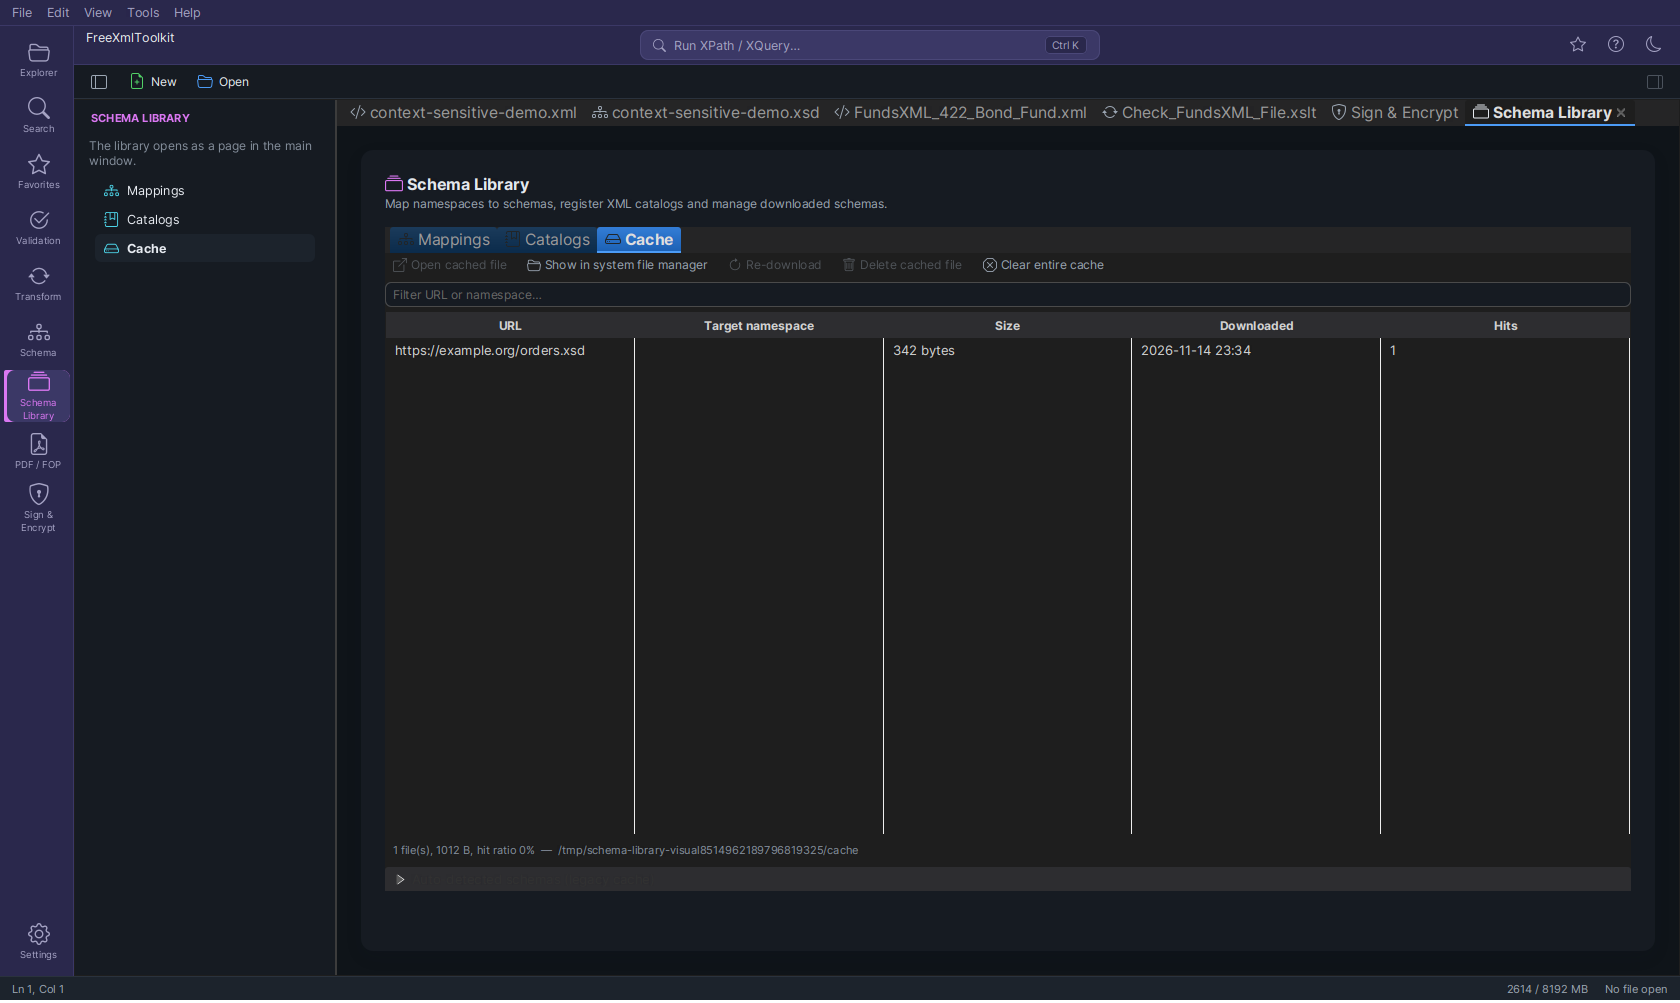
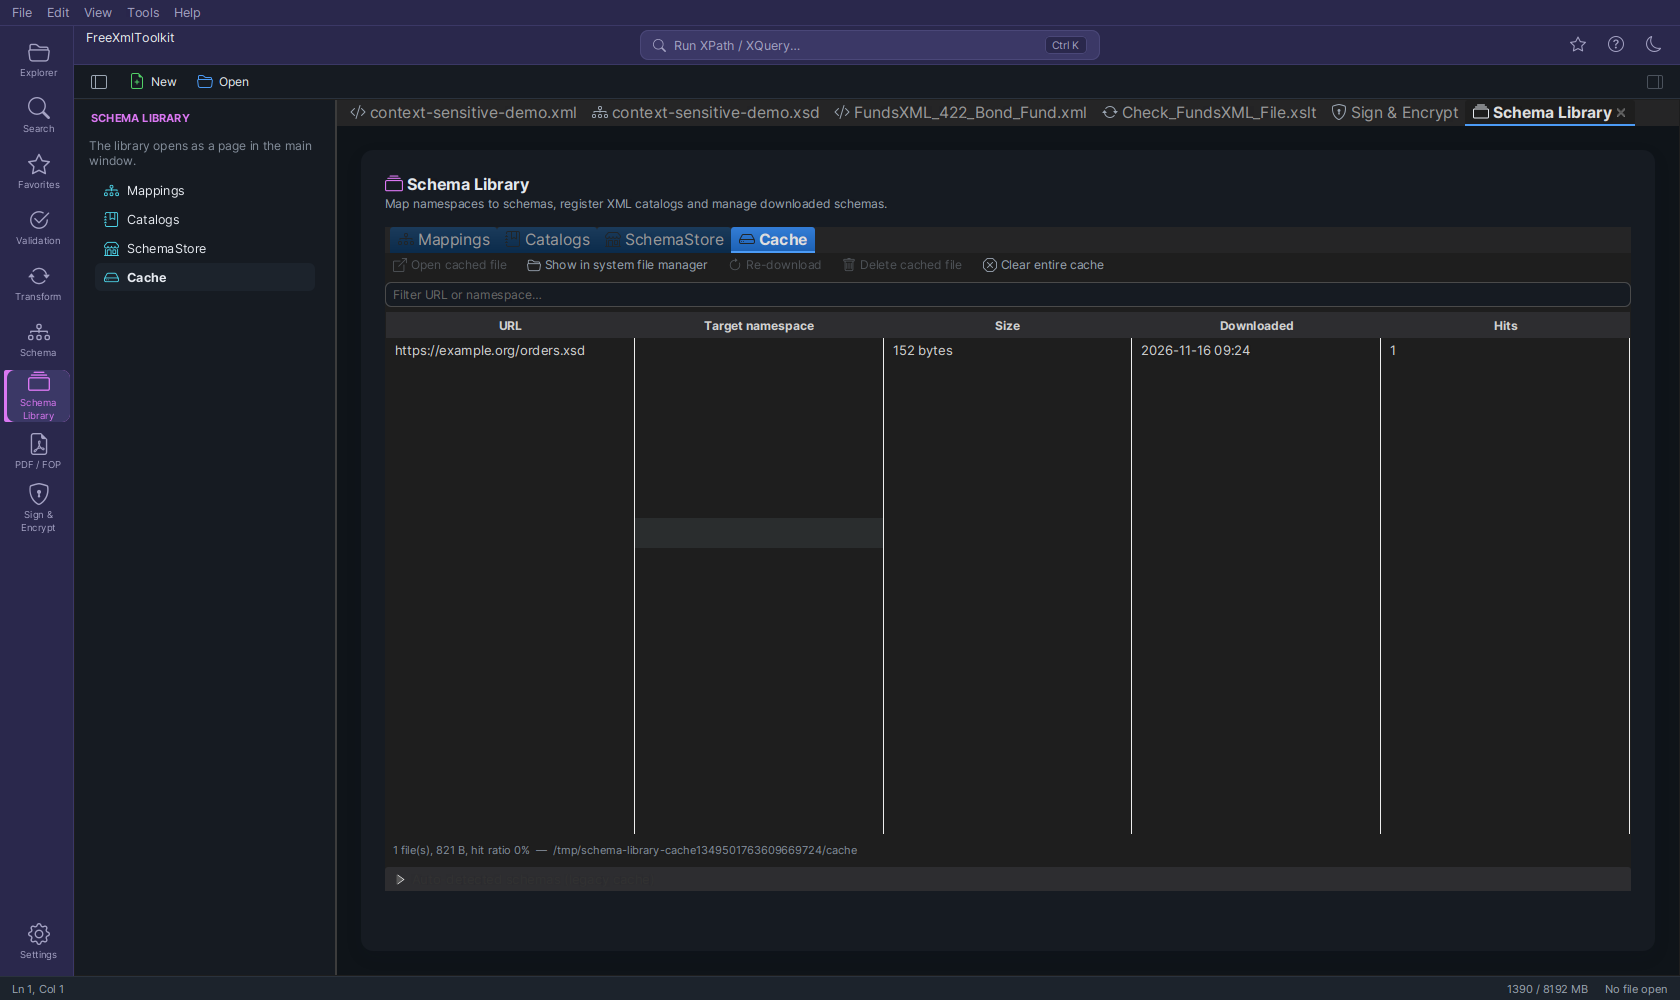
docs(schema-library): screenshots with the SchemaStore tab
The shell screenshot generator selected the library tabs by index (the new SchemaStore tab would
have been saved as "cache") and depended on fonts and a cache set up by other generators in the
same JVM; it now loads the fonts, seeds its own example cache and an offline SchemaStore catalog.

diff --git a/src/test/java/org/fxt/freexmltoolkit/screenshots/ShellDocScreenshotGenerator.java b/src/test/java/org/fxt/freexmltoolkit/screenshots/ShellDocScreenshotGenerator.java
@@ -57,6 +57,42 @@ class ShellDocScreenshotGenerator {
         org.fxt.freexmltoolkit.di.ServiceRegistry.get(org.fxt.freexmltoolkit.service.PropertiesService.class)
                 .set(org.fxt.freexmltoolkit.controls.shell.editor.FundsXmlHint.SHOWN_KEY, "true");
         org.fxt.freexmltoolkit.controls.v2.view.XsdTypeIconPaths.registerAll();
+        // The bundled fonts, as the application loads them (else the shots fall back to a system font).
+        for (String font : new String[]{"Inter-Regular", "Inter-Medium", "Inter-SemiBold", "Inter-Bold",
+                "JetBrainsMono-Regular", "JetBrainsMono-Medium", "JetBrainsMono-Bold"}) {
+            javafx.scene.text.Font.loadFont(getClass().getResourceAsStream("/css/fonts/" + font + ".ttf"), 10);
+        }
+        // A schema cache of its own with one example entry (no local paths of the machine in the Cache tab).
+        Path cacheDir = Files.createTempDirectory("schema-library-cache");
+        var cache = new org.fxt.freexmltoolkit.service.SchemaResourceCache(cacheDir.resolve("cache"));
+        Path cached = cache.getCacheDirectory().resolve("abc123.xsd");
+        Files.createDirectories(cached.getParent());
+        Files.writeString(cached, """
+                <xs:schema xmlns:xs="http://www.w3.org/2001/XMLSchema" targetNamespace="urn:example:orders">
+                  <xs:element name="order" type="xs:string"/>
+                </xs:schema>
+                """);
+        cache.getCacheIndex().addOrUpdateEntry(org.fxt.freexmltoolkit.service.SchemaCacheEntry.builder()
+                .localFilename("abc123.xsd").remoteUrl("https://example.org/orders.xsd")
+                .downloadTimestamp(java.time.Instant.now()).fileSizeBytes(Files.size(cached)).build());
+        cache.saveIndex();
+        org.fxt.freexmltoolkit.di.ServiceRegistry.register(org.fxt.freexmltoolkit.service.SchemaResourceCache.class, cache);
+        // A small offline SchemaStore catalog for the Schema Library's SchemaStore tab (nothing is downloaded).
+        Path catalog = Files.createTempDirectory("fxt-doc-schemastore").resolve("catalog.json");
+        Files.writeString(catalog, """
+                {"schemas": [
+                  {"name": "GitHub Workflow", "fileMatch": [".github/workflows/*.yml", ".github/workflows/*.yaml"],
+                   "url": "https://www.schemastore.org/github-workflow.json"},
+                  {"name": "Docker Compose", "fileMatch": ["docker-compose.yml", "compose.yaml"],
+                   "url": "https://www.schemastore.org/compose-spec.json"},
+                  {"name": "package.json", "fileMatch": ["package.json"],
+                   "url": "https://www.schemastore.org/package.json"}
+                ]}
+                """);
+        org.fxt.freexmltoolkit.service.schemastore.SchemaStoreCatalog.setShared(
+                new org.fxt.freexmltoolkit.service.schemastore.SchemaStoreCatalog(catalog, uri -> {
+                    throw new java.io.IOException("offline");
+                }));
         FXMLLoader loader = new FXMLLoader(getClass().getResource("/pages/tab_unified_shell.fxml"));
         root = loader.load();
         stage.setScene(new Scene(root, 1680, 1000));
@@ -233,7 +269,7 @@ class ShellDocScreenshotGenerator {
         settle();
         shot("unified-shell-signature");
 
-        // --- Schema Library activity: Mappings, Catalogs and Cache tabs ---
+        // --- Schema Library activity: Mappings, Catalogs, SchemaStore and Cache tabs ---
         try {
             onFx(() -> shell.getSelectionModel().select(Activity.SCHEMA_LIBRARY));
             settle();
@@ -244,7 +280,24 @@ class ShellDocScreenshotGenerator {
                 onFx(() -> libraryTabs.getSelectionModel().select(1));
                 settle();
                 shot("unified-shell-schema-library-catalogs");
-                onFx(() -> libraryTabs.getSelectionModel().select(2));
+                // SchemaStore tab: switched on (catalog above), a file name tried
+                onFx(() -> {
+                    libraryTabs.getSelectionModel().select(2);
+                    if (shell.lookup("#library-schemastore-enabled") instanceof javafx.scene.control.CheckBox enabled) {
+                        enabled.setSelected(true);
+                    }
+                    if (shell.lookup("#library-schemastore-try") instanceof javafx.scene.control.TextField tryName) {
+                        tryName.setText(".github/workflows/build.yml");
+                    }
+                });
+                settle(600);
+                shot("unified-shell-schema-library-schemastore");
+                onFx(() -> {
+                    if (shell.lookup("#library-schemastore-enabled") instanceof javafx.scene.control.CheckBox enabled) {
+                        enabled.setSelected(false);
+                    }
+                });
+                onFx(() -> libraryTabs.getSelectionModel().select(3));
                 settle(600); // let the cache tab load
                 shot("unified-shell-schema-library-cache");
             }

diff --git a/src/test/java/org/fxt/freexmltoolkit/screenshots/SchemaLibraryVisualDocScreenshotGenerator.java b/src/test/java/org/fxt/freexmltoolkit/screenshots/SchemaLibraryVisualDocScreenshotGenerator.java
@@ -182,8 +182,8 @@ class SchemaLibraryVisualDocScreenshotGenerator {
         onFx(() -> dlg[0].close());
         settle(300);
 
-        // 5. Cache tab
-        onFx(() -> tabs.getSelectionModel().select(2));
+        // 5. Cache tab (after Mappings, Catalogs, SchemaStore)
+        onFx(() -> tabs.getSelectionModel().select(3));
         settle(800);
         shot("05-cache");
 

diff --git a/docs/schema-library.md b/docs/schema-library.md
@@ -150,6 +150,9 @@ Register `catalog.xml` in the Catalogs tab, open the documents and validate; the
 
 ## 4. SchemaStore
 
+![Schema Library - SchemaStore](img/unified-shell-schema-library-schemastore.png)
+*The SchemaStore tab: switched on, the catalog's state, and a file name tried against it.*
+
 The [SchemaStore](https://www.schemastore.org) catalog names the public JSON Schema of hundreds of
 file types by their file name: `docker-compose.yml`, GitHub workflows and actions, `package.json`,
 `tsconfig.json`, `.gitlab-ci.yml`, OpenAPI and AsyncAPI files, Ansible, Helm charts and many more.
